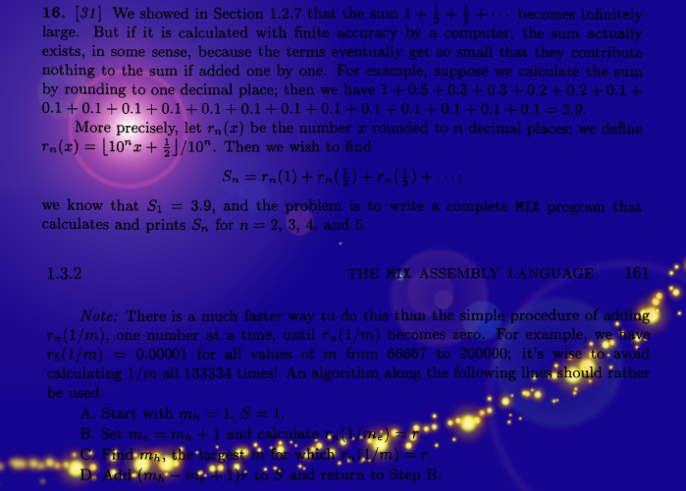
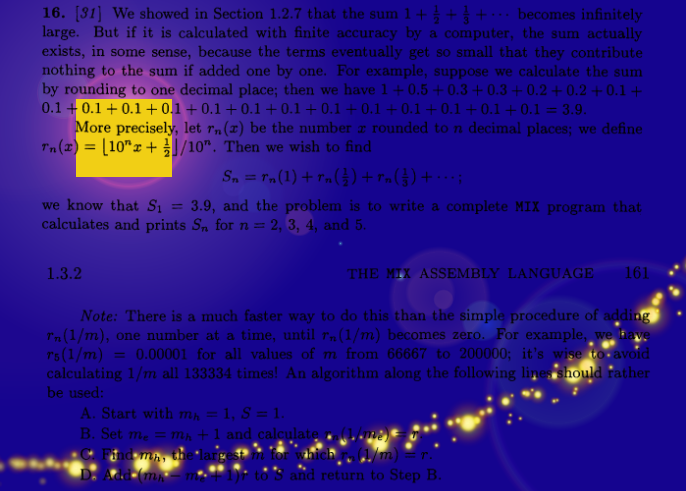
E20

Changed region(s): [[0.0918, 0.1833, 0.2755, 0.3666]]

diff --git a/132E/README.md b/132E/README.md
@@ -4,6 +4,7 @@
 ![E14](../img/132E14.png)
 ![E16](../img/132E16.png)
 ![E18](../img/132E18.png)
+![E20](../img/132E20.png)
 ### Notes
 *paper.dev* contains random text from the **ChasBase** tactics server, it is used by exersice *13*, and  
 by default it should be put in *~/.mdk/* directory.

diff --git a/README.md b/README.md
@@ -8,7 +8,7 @@ The Art Of Computer Programming
    + gas
    + lisp
 
-1.3.2 **Algorithm P.**_(Print table of 500 primes)._
+1.3.2 **Algorithm P** _(Print table of 500 primes)._
    + lisp
    + python
    + gas
